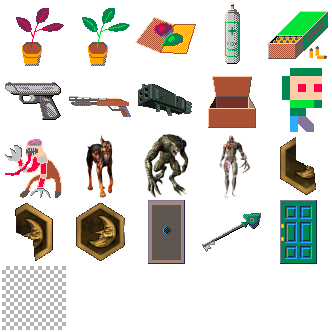
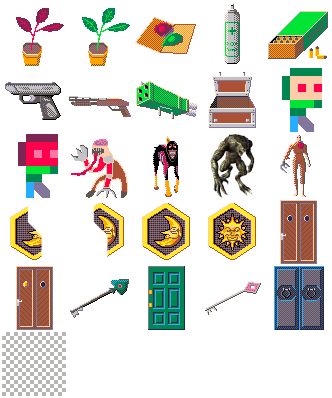
Add new cards

diff --git a/lib/src/game/builders/CardBuilder.cpp b/lib/src/game/builders/CardBuilder.cpp
@@ -98,6 +98,26 @@ const std::map<CardType, Card> CARD_DEFS = {
              .name = "spade key",
              .text1 = "key with a",
              .text2 = "spade symbol." } },
+    { CardType::DiamondDoor,
+      Card { .image = CardImage::DiamondDoor,
+             .traits = CardTrait::KeyTarget,
+             .quantity = 0,
+             .power = 0,
+             .link = SPECIAL_DIAMOND_KEYDOOR,
+             .name = "door",
+             .text1 = "there is a",
+             .text2 = "diamond symbol",
+             .text3 = "above the",
+             .text4 = "keyhole." } },
+    { CardType::DiamondKey,
+      Card { .image = CardImage::DiamondKey,
+             .traits = CardTrait::Pickable | CardTrait::KeyItem,
+             .quantity = 0,
+             .power = 0,
+             .link = SPECIAL_DIAMOND_KEYDOOR,
+             .name = "diamond key",
+             .text1 = "key with a",
+             .text2 = "diamond symbol." } },
     { CardType::MoonCrestLeft,
       Card { .image = CardImage::MoonCrestLeft,
              .traits = CardTrait::Pickable | CardTrait::KeyItemPart,
@@ -128,16 +148,38 @@ const std::map<CardType, Card> CARD_DEFS = {
              .text1 = "hexagonal crest",
              .text2 = "with an image of",
              .text3 = "a half moon." } },
-    { CardType::MoonCrestDoor,
-      Card { .image = CardImage::MoonCrestDoor,
+    { CardType::SunCrest,
+      Card { .image = CardImage::SunCrest,
+             .traits = CardTrait::Pickable | CardTrait::KeyItem,
+             .quantity = 0,
+             .power = 0,
+             .link = SPECIAL_CREST_DOOR,
+             .name = "moon crest",
+             .text1 = "hexagonal crest",
+             .text2 = "with an image of",
+             .text3 = "a half moon." } },
+    { CardType::CrestDoorEmpty,
+      Card { .image = CardImage::CrestDoorEmpty,
              .traits = CardTrait::KeyTarget,
              .quantity = 0,
              .power = 0,
              .link = SPECIAL_CREST_DOOR,
-             .name = "moon-crest door",
-             .text1 = "there is a slot",
-             .text2 = "for something of",
-             .text3 = "hexagonal shape." } },
+             .name = "sun/moon door",
+             .text1 = "there are slots",
+             .text2 = "for two hex-",
+             .text3 = "shaped crests." } },
+    { CardType::CrestDoorWithOneCrest,
+      Card {
+          .image = CardImage::CrestDoorWithOneCrest,
+          .traits = CardTrait::KeyTarget,
+          .quantity = 0,
+          .power = 0,
+          .link = SPECIAL_CREST_DOOR,
+          .name = "sun/moon door",
+          .text1 = "there is a slot",
+          .text2 = "for one more",
+          .text3 = "crest.",
+      } },
 
     // Enemies
     { CardType::Zombie,
@@ -151,7 +193,7 @@ const std::map<CardType, Card> CARD_DEFS = {
              .text2 = "chance to spawn",
              .text3 = "a crimson head." } },
     { CardType::CrimsonHead,
-      Card { .image = CardImage::Max,
+      Card { .image = CardImage::CrimsonHead,
              .traits = CardTrait::Enemy,
              .special = CardSpecial::Vigilant,
              .quantity = 0,

diff --git a/lib/src/game/builders/SceneBuilder.cpp b/lib/src/game/builders/SceneBuilder.cpp
@@ -9,8 +9,8 @@
     // breaks
     auto&& deck =
         std::vector<Card> { CardBuilder::createCard(CardType::BookCase),
-                            CardBuilder::createCard(CardType::ShieldDoor),
-                            CardBuilder::createCard(CardType::ShieldKey),
+                            CardBuilder::createCard(CardType::DiamondDoor),
+                            CardBuilder::createCard(CardType::DiamondKey),
                             CardBuilder::createCard(CardType::Zombie),
                             CardBuilder::createCard(CardType::Zombie),
                             CardBuilder::createCard(CardType::Zombie),
@@ -18,23 +18,9 @@
                             CardBuilder::createCard(CardType::Zombie),
                             CardBuilder::createCard(CardType::GreenHerb),
                             CardBuilder::createCard(CardType::Crate),
-                            CardBuilder::createCard(CardType::MoonCrestLeft),
+                            CardBuilder::createCard(CardType::MoonCrest),
                             CardBuilder::createCard(CardType::Ammo),
-                            CardBuilder::createCard(CardType::MoonCrestDoor) };
-
-    /*auto randomCardType = []
-    {
-        return static_cast<CardType>(
-            rand() % std::to_underlying(CardType::BookCase));
-    };
-
-    for (auto&& type :
-         std::views::iota(0u, 20u)
-             | std::views::transform(
-                 [&](size_t) -> CardType { return randomCardType(); }))
-    {
-        deck.push_back(CardBuilder::createCard(type));
-    }*/
+                            CardBuilder::createCard(CardType::CrestDoorEmpty) };
 
     auto&& mt = std::mt19937 { std::random_device {}() };
     std::ranges::shuffle(deck, mt);
@@ -53,7 +39,7 @@ Scene SceneBuilder::createScene()
         .mainCardBody =
             dgm::Rect(RenderingEngine::getDeckCardOffset(), CARD_SIZE),
         .healthbarBody = dgm::Rect({ 35.f, 7.f }, { 85.f, 16.f }),
-        .trashBody = dgm::Rect({ 7.f, 211.f }, { 114.f, 10.f }),
+        .trashBody = dgm::Rect({ 5.f, 207.f }, { 116.f, 18.f }),
         .inventoryBodies = { dgm::Rect(
                                  RenderingEngine::getNthInventoryCardOffset(0),
                                  CARD_SIZE / 3.f),
@@ -76,7 +62,7 @@ void SceneBuilder::spawnCardsAfterFirstKeyTarget(Scene& scene)
                             CardBuilder::createCard(CardType::Licker),
                             CardBuilder::createCard(CardType::Licker),
                             CardBuilder::createCard(CardType::Cerberus),
-                            CardBuilder::createCard(CardType::MoonCrestRight) };
+                            CardBuilder::createCard(CardType::SunCrest) };
 
     auto&& mt = std::mt19937 { std::random_device {}() };
     std::ranges::shuffle(incoming, mt);

diff --git a/lib/src/game/engine/GameRulesEngine.cpp b/lib/src/game/engine/GameRulesEngine.cpp
@@ -76,6 +76,7 @@ void GameRulesEngine::operator()(const BeforeCardSkipGameEvent& e)
 
 void GameRulesEngine::operator()(const InventoryCardTrashedGameEvent& e)
 {
+    // TODO: play sound
     scene.inventory[e.inventorySlotIdx].reset();
 }
 
@@ -111,16 +112,28 @@ void GameRulesEngine::operator()(const InventoryCardUsedOnMainCardGameEvent& e)
         && deckCard.traits & CardTrait::KeyTarget && card.link == deckCard.link)
     {
         scene.inventory[e.inventorySlotIdx].reset();
-        gameEventQueue.pushEvent<MainCardResolvedGameEvent>();
 
-        if (card.link == SPECIAL_SHIELD_KEYDOOR)
+        if (card.link == SPECIAL_SHIELD_KEYDOOR
+            || card.link == SPECIAL_DIAMOND_KEYDOOR)
         {
             SceneBuilder::spawnCardsAfterFirstKeyTarget(scene);
         }
-        else if (card.link == SPECIAL_CREST_DOOR)
+        else if (
+            card.link == SPECIAL_CREST_DOOR
+            && deckCard.image == CardImage::CrestDoorEmpty)
+        {
+            scene.deck.front() =
+                CardBuilder::createCard(CardType::CrestDoorWithOneCrest);
+            return;
+        }
+        else if (
+            card.link == SPECIAL_CREST_DOOR
+            && deckCard.image == CardImage::CrestDoorWithOneCrest)
         {
             scene.won = true;
         }
+
+        gameEventQueue.pushEvent<MainCardResolvedGameEvent>();
     }
     else if (deckCard.special == CardSpecial::Deposit)
     {

diff --git a/lib/include/game/enums/CardImage.hpp b/lib/include/game/enums/CardImage.hpp
@@ -12,6 +12,7 @@ enum class [[nodiscard]] CardImage
     RocketLauncher,
     Crate,
     Zombie,
+    CrimsonHead,
     Licker,
     Cerberus,
     Hunter,
@@ -19,9 +20,13 @@ enum class [[nodiscard]] CardImage
     MoonCrestLeft,
     MoonCrestRight,
     MoonCrest,
-    MoonCrestDoor,
+    SunCrest,
+    CrestDoorEmpty,
+    CrestDoorWithOneCrest,
     ShieldKey,
     ShieldDoor,
+    DiamondKey,
+    DiamondDoor,
 
     Max
 };

diff --git a/lib/include/game/enums/CardType.hpp b/lib/include/game/enums/CardType.hpp
@@ -19,9 +19,13 @@ enum class [[nodiscard]] CardType
     MoonCrestLeft,
     MoonCrestRight,
     MoonCrest,
-    MoonCrestDoor,
+    SunCrest,
+    CrestDoorEmpty,
+    CrestDoorWithOneCrest,
     ShieldKey,
     ShieldDoor,
+    DiamondKey,
+    DiamondDoor,
 
     // Enemies
     Zombie,

diff --git a/lib/include/game/enums/CardSpecial.hpp b/lib/include/game/enums/CardSpecial.hpp
@@ -15,3 +15,4 @@ constexpr const int SPECIAL_HERBS = 1;
 constexpr const int SPECIAL_MOON_CREST_PART = 2;
 constexpr const int SPECIAL_SHIELD_KEYDOOR = 3;
 constexpr const int SPECIAL_CREST_DOOR = 4;
+constexpr const int SPECIAL_DIAMOND_KEYDOOR = 5;
